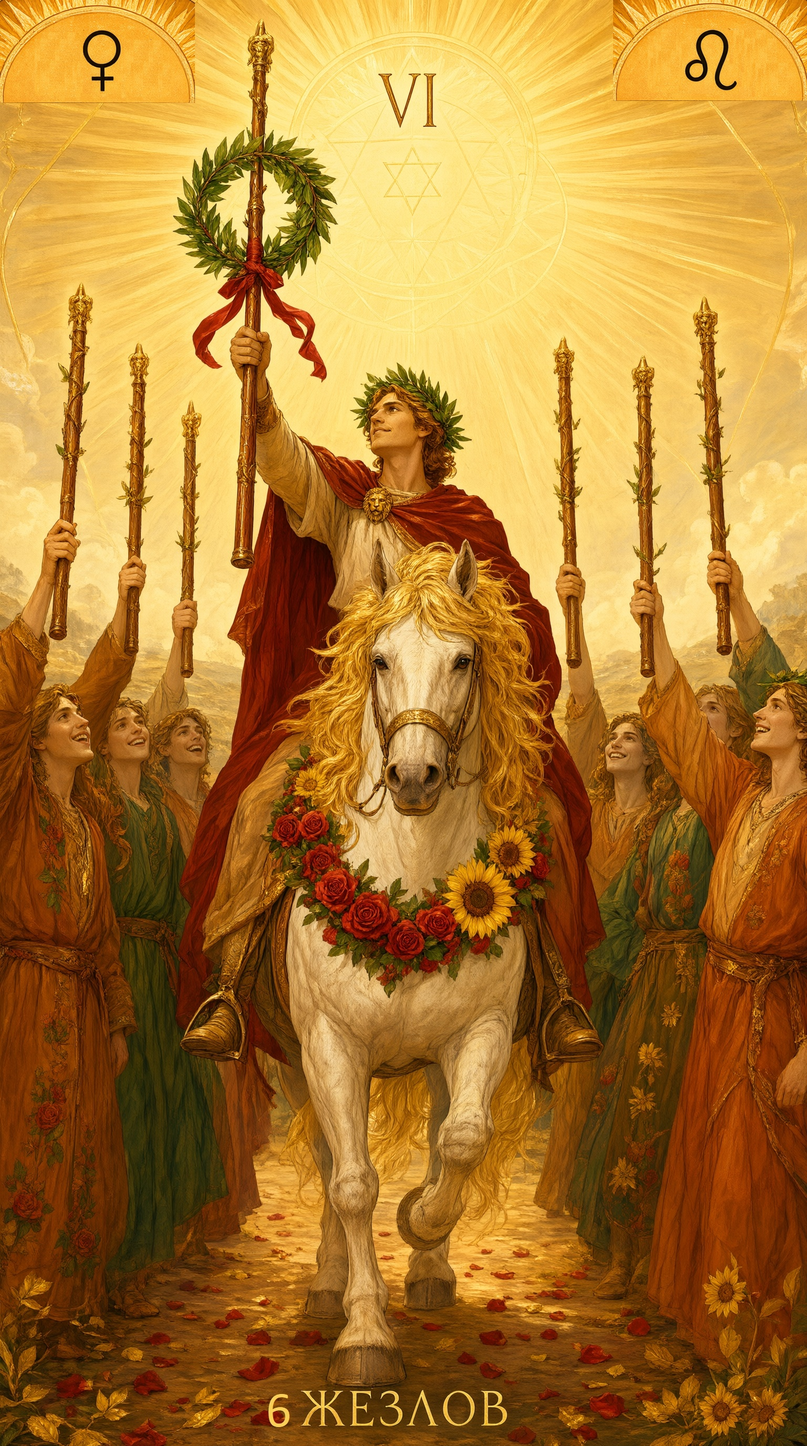
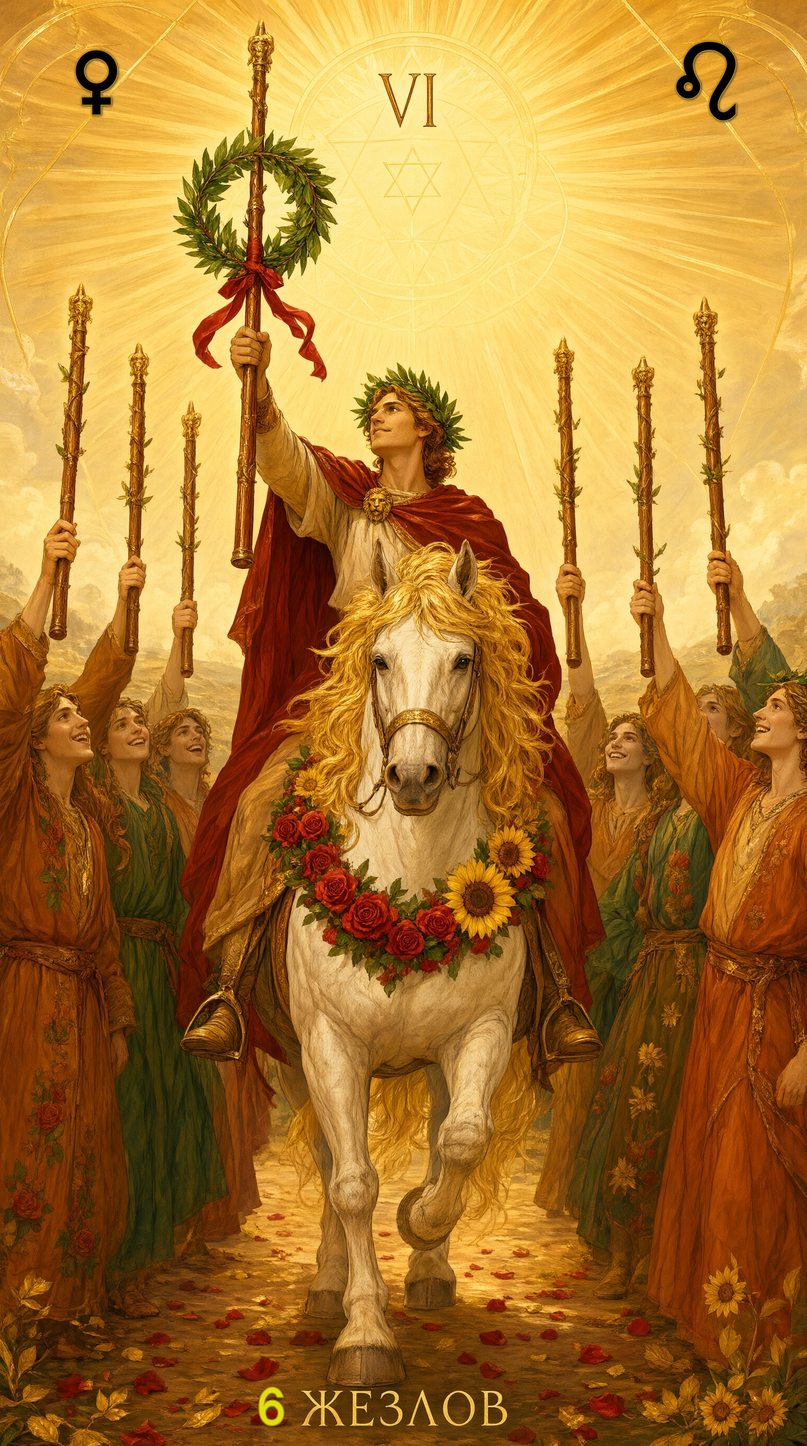
v2.1.6

Changed region(s): [[0.75, 0.0, 1.0, 0.0938], [0.0, 0.0, 0.25, 0.0938], [0.3125, 0.9375, 0.375, 1.0]]

diff --git a/core/knowledge/weights.py b/core/knowledge/weights.py
@@ -413,13 +413,13 @@ AUTHOR_DEFINITIONS = {
 === УРАН (АВТОРСКОЕ ОПРЕДЕЛЕНИЕ ШКОЛЫ) ===
 Управитель знака Стрелец. Символический управитель 9 дома.
 
-КЛЮЧЕВЫЕ СЛОВА: неожиданно, внезапно, спонтанно, несдержанно.
+КЛЮЧЕВЫЕ СЛОВА: неожиданно, внезапно, спонтанно, несдержанно, буран, грубиян, знания, мупешествия, поездки, всё иностранное.
 
 КЛЮЧЕВЫЕ РОЛИ ЗНАЮЩЕГО ЧЕЛОВЕКА:
 1. Человек формирует себе систему знаний, опираясь на которую, он может объяснить происходящее.
 2. Человек берет на себя роль учителя и рассказывает знания тем, кто спросил или нуждается в них.
 3. Это планета ученых, интеллектуалов, претендующих на открытия.
-4. Знак, в котором находится Уран, показывает какие знания человек будет считать значимыми. Каким подходом он будет вести исследования. Как будет выдавать информацию.
+4. Знак, в котором находится Уран, показывает в какой сфере человек эксперт и какие знания считать значимыми. Каким подходом он будет вести исследования. Как будет выдавать информацию.
 Когда Уран активируется в этом ключе, человек становится преподавателем, вещающим истину, правду, открывшуюся ему.
 Как планета огня – имеет нажим, доказывает, отстаивает свое.
 
